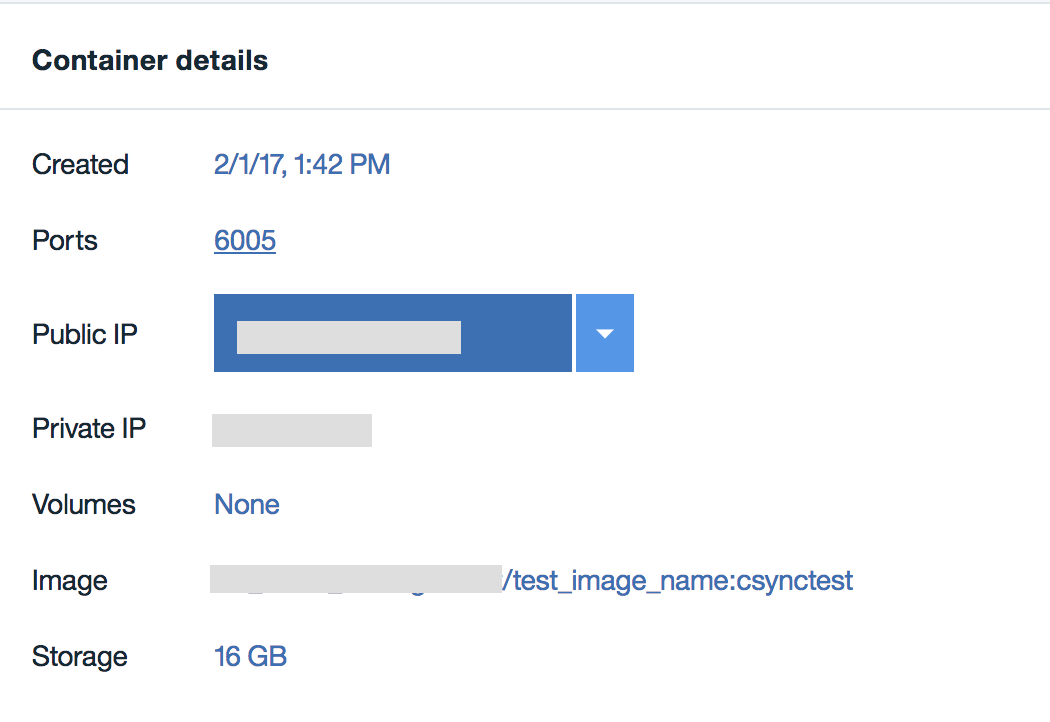
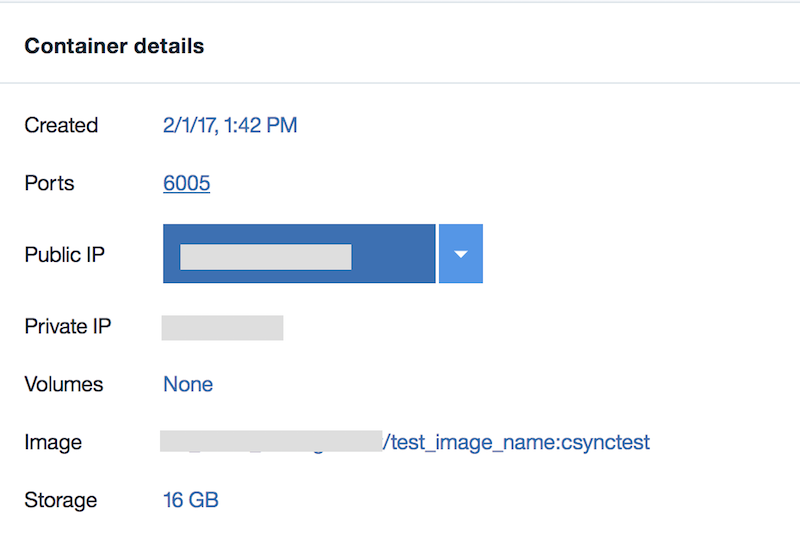
resizing images and fixed wording

diff --git a/README.md b/README.md
@@ -114,7 +114,7 @@ The ACL for a key is set when the key is created by the first write performed to
 ### Deploy on Bluemix
   Click [here] (https://github.com/csync/csync-server/wiki/Create-a-CSync-Instance-on-Bluemix) to manually setup CSync on Bluemix.
 
-  You can also try the `Deploy to Bluemix` button which creates an instance of CSync on Bluemix provided your organization already has a [namespace](https://console.ng.bluemix.net/docs/containers/container_planning_org_ov.html). 
+  You can also try the `Deploy to Bluemix` button which creates an instance of CSync on Bluemix, provided your organization already has a [namespace](https://console.ng.bluemix.net/docs/containers/container_planning_org_ov.html). 
   
   <a href="https://bluemix.net/deploy?repository=https://github.com/csync/csync-server&branch=laik/deploy_to_bluemix"><img src="https://bluemix.net/deploy/button.png" alt="Deploy to Bluemix" target="_blank"></a>
   1. Login to Bluemix:
